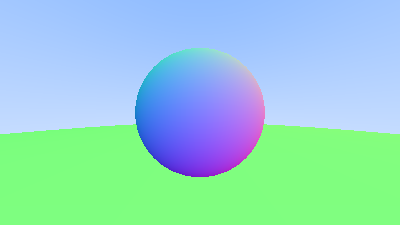
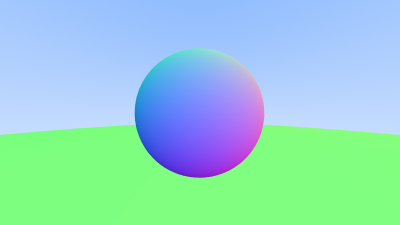
each pixel has multiple samples now

diff --git a/src/main.rs b/src/main.rs
@@ -1,3 +1,4 @@
+pub mod camera;
 pub mod color;
 pub mod hittable;
 pub mod image_encoder;
@@ -6,6 +7,7 @@ pub mod sphere;
 pub mod vector3;
 use crate::hittable::Hittable;
 use cast::u32;
+use rand::Rng;
 pub fn ray_color(r: &ray::Ray, world: Vec<sphere::Sphere>) -> vector3::Color {
     if let Some(hit) = world.clone().hit(r, 0.0, 10000000000.0) {
         //print!("{} {} {}", hit.normal.x, hit.normal.y, hit.normal.z);
@@ -17,10 +19,13 @@ pub fn ray_color(r: &ray::Ray, world: Vec<sphere::Sphere>) -> vector3::Color {
 }
 
 fn main() {
+    let mut rng = rand::thread_rng();
+
     // Image
     let aspect_ratio: f64 = 16.0 / 9.0;
     let image_width: u32 = 400;
     let image_height: u32 = u32(image_width as f64 / aspect_ratio).unwrap();
+    let samples_per_pixel = 100;
 
     // World
     let mut world: Vec<sphere::Sphere> = Vec::new();
@@ -35,32 +40,27 @@ fn main() {
 
     // Camera
 
-    let viewport_height = 2.0;
-    let viewport_width = aspect_ratio * viewport_height;
-    let focal_length = 1.0;
-
-    let origin = vector3::Point::new(0.0, 0.0, 0.0);
-    let horizontal = vector3::Vec3::new(viewport_width, 0.0, 0.0);
-    let vertical = vector3::Vec3::new(0.0, viewport_height, 0.0);
-    let lower_left_corner =
-        origin - horizontal / 2.0 - vertical / 2.0 - vector3::Vec3::new(0.0, 0.0, focal_length);
+    let cam = camera::Camera::new();
 
     // Render
 
     let mut img: image::RgbImage = image::ImageBuffer::new(image_width, image_height);
     for j in 0..image_height {
         for i in 0..image_width {
-            let u = i as f64 / (image_width - 1) as f64;
-            let v = j as f64 / (image_height - 1) as f64;
-            //let b = 0.25 as f64;
-            //let color = vector3::Color { x: r, y: g, z: b };
+            let mut pixel_color = vector3::Color::new(0.0, 0.0, 0.0);
+            for s in 0..samples_per_pixel {
+                let u = (i as f64 + rng.gen_range(0.0..1.0)) / (image_width - 1) as f64;
+                let v = (j as f64 + rng.gen_range(0.0..1.0)) / (image_height - 1) as f64;
+                //println!("{} {} ", u, v);
+                let r = cam.get_ray(u, v);
+                pixel_color = pixel_color + ray_color(&r, world.clone());
+            }
 
-            let r = ray::Ray::new(
-                origin,
-                lower_left_corner + horizontal * u + vertical * v - origin,
+            img.put_pixel(
+                i,
+                image_height - j - 1,
+                pixel_color.get_color(samples_per_pixel),
             );
-            let color = ray_color(&r, world.clone());
-            img.put_pixel(i, image_height - j - 1, color.get_color());
         }
     }
     img.save("image.png").unwrap();

diff --git a/src/camera.rs b/src/camera.rs
@@ -1,0 +1,37 @@
+use crate::ray;
+use crate::vector3;
+#[derive(Copy, Clone)]
+pub struct Camera {
+    origin: vector3::Point,
+    lower_left_corner: vector3::Point,
+    horizontal: vector3::Vec3,
+    vertical: vector3::Vec3,
+}
+
+impl Camera {
+    pub fn new() -> Camera {
+        let aspect_ratio = 16.0 / 9.0;
+        let viewport_height = 2.0;
+        let viewport_width = aspect_ratio * viewport_height;
+        let focal_length = 1.0;
+        let horizontal = vector3::Vec3::new(viewport_width, 0.0, 0.0);
+        let vertical = vector3::Vec3::new(0.0, viewport_height, 0.0);
+        let origin = vector3::Point::new(0.0, 0.0, 0.0);
+        Camera {
+            horizontal: horizontal,
+            vertical: vertical,
+            origin: origin,
+            lower_left_corner: origin
+                - horizontal / 2.0
+                - vertical / 2.0
+                - vector3::Vec3::new(0.0, 0.0, focal_length),
+        }
+    }
+
+    pub fn get_ray(self, u: f64, v: f64) -> ray::Ray {
+        ray::Ray::new(
+            self.origin,
+            self.lower_left_corner + self.horizontal * u + self.vertical * v - self.origin,
+        )
+    }
+}

diff --git a/src/color.rs b/src/color.rs
@@ -1,10 +1,22 @@
 use crate::vector3;
 use cast::u8;
+use std::cmp::max;
+use std::cmp::min;
 impl vector3::Color {
-    pub fn get_color(self) -> image::Rgb<u8> {
-        let ir: u8 = u8(255.0 * self.x).unwrap();
-        let ig: u8 = u8(255.0 * self.y).unwrap();
-        let ib: u8 = u8(255.0 * self.z).unwrap();
+    pub fn get_color(self, samples_per_pixel: i32) -> image::Rgb<u8> {
+        let ir: u8 = u8(255.0 * clamp(self.x / samples_per_pixel as f64)).unwrap();
+        let ig: u8 = u8(255.0 * clamp(self.y / samples_per_pixel as f64)).unwrap();
+        let ib: u8 = u8(255.0 * clamp(self.z / samples_per_pixel as f64)).unwrap();
+
         image::Rgb([ir, ig, ib])
+    }
+}
+pub fn clamp(p: f64) -> f64 {
+    if p < 0.0 {
+        return 0.0;
+    } else if p > 0.999 {
+        return 0.999;
+    } else {
+        return p;
     }
 }
